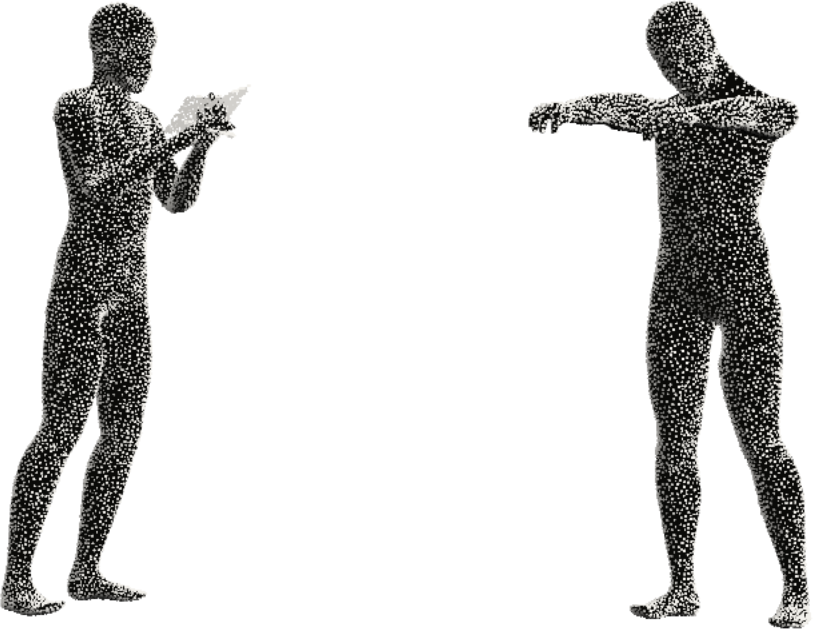
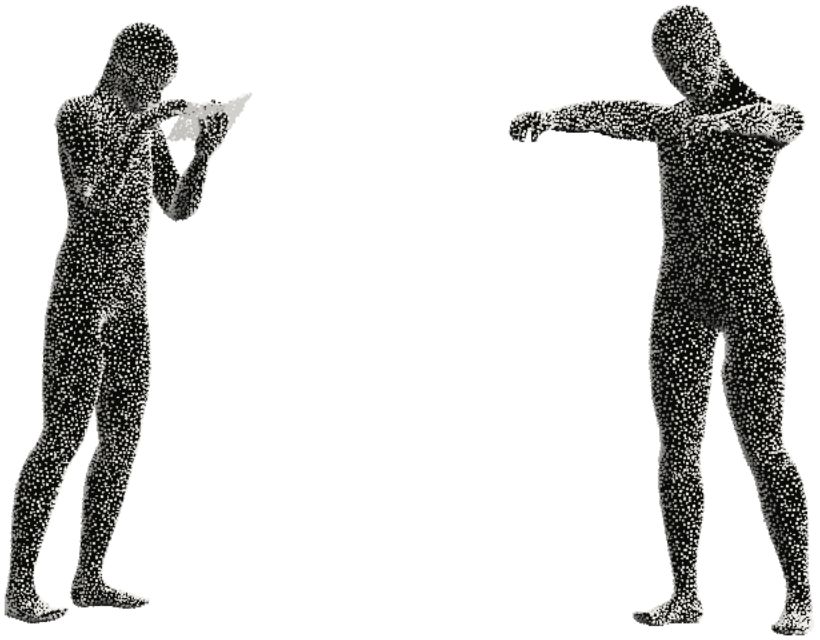
Продукты: привязать движение карандаша к странице

Changed region(s): [[0.615, 0.0, 1.0, 1.0], [0.0, 0.0, 0.3075, 0.9968]]

diff --git a/produkty/produkty-scene.js b/produkty/produkty-scene.js
@@ -13,6 +13,7 @@ import { SVGLoader } from '../_assets/vendor/three/loaders/SVGLoader.js';
 import { createSpinePoints } from '../_assets/3d/spine-page.js';
 import { init as initHuman } from '../_assets/3d/human-points.js?v=20261112-2';
 import { createMasterclassPoints } from '../_assets/3d/masterclass-points.js?v=20261112-2';
+import { NOTEBOOK_PAGES, PENCIL_TIP, palmFrame, constrainWriting } from '../_assets/3d/coach-writing.js?v=20261112-6';
 
 const STAT_TURN = 12;                 // с на оборот логотипа
 const SPINE_TURN = 20;                // с на оборот позвоночника (как на странице анализа)
@@ -154,6 +155,8 @@ function init() {
     inst.setTransform(S, foot, p0[0], p0[1], Math.cos(p0[2]), Math.sin(p0[2]));
     const placement = new THREE.Matrix4().compose(new THREE.Vector3(p0[0], -foot * S, p0[1]), new THREE.Quaternion().setFromAxisAngle(new THREE.Vector3(0, 1, 0), p0[2]), new THREE.Vector3(S, S, S));
     const props = opt.props ? opt.props.map((k) => handProp(k, inst, parent)) : [];
+    const writing = opt.clip === 'coach_notes' && props.length
+      ? constrainWriting(inst.model, props[0].palm, props[1].palm, props[1].mount) : null;
     // копии: те же точки и тело, своя матрица
     const copies = more.map(([x, z, yaw]) => {
       const pl = new THREE.Matrix4().compose(new THREE.Vector3(x, -foot * S, z), new THREE.Quaternion().setFromAxisAngle(new THREE.Vector3(0, 1, 0), yaw), new THREE.Vector3(S, S, S));
@@ -169,8 +172,10 @@ function init() {
       frame(dt, vis) {
         if (!vis) { if (on) { inst.pause(); for (const c of copies) c.pts.visible = c.occ.visible = false; for (const pr of props) pr.pts.visible = false; on = false; } return; }
         if (!on) { inst.resume(); on = true; }
+        writing?.restore();
         if (!reduce) inst.mixer.update(dt);
         inst.model.updateMatrixWorld(true);
+        writing?.apply(inst.actions.coach_notes.time);
         inst.update();
         inst.occ.material.uniforms.uColor.value.copy(bg);
         for (const pr of props) pr.update(placement);
@@ -227,56 +232,46 @@ function init() {
       }
     }
   }
-  function cylPoints(out, len, r, dens) {
-    const cnt = Math.round(2 * Math.PI * r * len * dens);
-    for (let i = 0; i < cnt; i++) {
-      const a = Math.random() * 2 * Math.PI, y = (Math.random() - 0.5) * len;
-      out.push(new THREE.Vector3(Math.cos(a) * r, y, Math.sin(a) * r), new THREE.Vector3(Math.cos(a), 0, Math.sin(a)));
+  function pencilPoints(out, dens) {
+    const radius = 0.0045, shoulder = PENCIL_TIP - 0.018;
+    for (const [start, end, endRadius] of [[-PENCIL_TIP, shoulder, radius], [shoulder, PENCIL_TIP, 0]]) {
+      const count = Math.round(Math.PI * (radius + endRadius) * (end - start) * dens);
+      for (let i = 0; i < count; i++) {
+        const angle = Math.random() * 2 * Math.PI, t = Math.random();
+        const c = Math.cos(angle), s = Math.sin(angle), r = THREE.MathUtils.lerp(radius, endRadius, t);
+        out.push(new THREE.Vector3(c * r, THREE.MathUtils.lerp(start, end, t), s * r),
+          new THREE.Vector3(c, (radius - endRadius) / (end - start), s).normalize());
+      }
     }
+    out.push(new THREE.Vector3(0, PENCIL_TIP, 0), new THREE.Vector3(0, 1, 0));
   }
   function handProp(kind, inst, parent) {
-    const sd = kind === 'notebook' ? 'Left' : 'Right';
-    const bone = (n) => inst.model.getObjectByName('mixamorig' + sd + n);
-    const B = { hand: bone('Hand'), mid: bone('HandMiddle1'), idx: bone('HandIndex1'), pinky: bone('HandPinky1'), thumb: bone('HandThumb3') };
+    const palm = palmFrame(inst.model, kind === 'notebook' ? 'Left' : 'Right');
     const arr = [], DENS = 24000;
     if (kind === 'notebook') {
-      // открытый блокнот A5 (две страницы по 10,5 x 14,8 см, толщина 4 мм), лёгкий излом по корешку;
-      // лежит на ладони, корешок вдоль кисти
-      const fold = 10 * Math.PI / 180;
-      for (const sg of [-1, 1]) {
-        const q = new THREE.Quaternion().setFromAxisAngle(new THREE.Vector3(0, 1, 0), -sg * fold);
-        const c = new THREE.Vector3(sg * 0.0525 * Math.cos(fold), 0.05, 0.034 + 0.0525 * Math.sin(fold));
-        boxPoints(arr, 0.105, 0.148, 0.004, c, q, DENS);
-      }
+      for (const { width, height, thickness, center, rotation } of NOTEBOOK_PAGES)
+        boxPoints(arr, width, height, thickness, center, rotation, DENS);
     } else {
-      // ручка: цилиндр 14 см, диаметр 9 мм
-      cylPoints(arr, 0.14, 0.0045, DENS * 1.6);
+      pencilPoints(arr, DENS * 1.6);
     }
     const n = arr.length / 2, pos = new Float32Array(n * 3), nrm = new Float32Array(n * 3);
     for (let i = 0; i < n; i++) { arr[2 * i].toArray(pos, 3 * i); arr[2 * i + 1].toArray(nrm, 3 * i); }
     const geo = new THREE.BufferGeometry();
     geo.setAttribute('position', new THREE.BufferAttribute(pos, 3)); geo.setAttribute('normal', new THREE.BufferAttribute(nrm, 3));
-    const mat = propMat();
+    const mat = kind === 'pen' ? propMat({ tone: 0.76 }) : propMat();
     const pts = new THREE.Points(geo, mat);
     pts.frustumCulled = false; pts.matrixAutoUpdate = false; pts.renderOrder = (inst.points.renderOrder || 6) + 1;
     parent.add(pts);
     (window.__props = window.__props || []).push({ kind, pts });   // для автотестов
-    const P = {}, frame = new THREE.Matrix4(), off = new THREE.Matrix4(), X = new THREE.Vector3(), Y = new THREE.Vector3(), Z = new THREE.Vector3(), tv = new THREE.Vector3();
-    // ручка в рамке ладони: центр у основания указательного, ось наклонена к ладони и к мизинцу
-    if (kind === 'pen') off.compose(new THREE.Vector3(0.015, 0.05, 0.03),
+    const mount = new THREE.Matrix4();
+    // Карандаш в рамке ладони: центр у основания указательного пальца.
+    if (kind === 'pen') mount.compose(new THREE.Vector3(0.015, 0.05, 0.03),
       new THREE.Quaternion().setFromUnitVectors(new THREE.Vector3(0, 1, 0), new THREE.Vector3(-0.25, 0.55, 0.8).normalize()), new THREE.Vector3(1, 1, 1));
     return {
-      pts, count: n,
+      pts, palm, mount,
       dpr() { mat.uniforms.uDpr.value = renderer.getPixelRatio(); },
       update(placement) {
-        for (const k in B) { P[k] = P[k] || new THREE.Vector3(); B[k].getWorldPosition(P[k]); }
-        Y.subVectors(P.mid, P.hand).normalize();
-        X.subVectors(P.idx, P.pinky); X.addScaledVector(Y, -X.dot(Y)).normalize();
-        Z.crossVectors(X, Y).normalize();
-        if (Z.dot(tv.subVectors(P.thumb, P.hand)) < 0) { Z.negate(); X.negate(); }
-        frame.makeBasis(X, Y, Z).setPosition(tv.copy(P.hand).lerp(P.mid, 0.5));
-        pts.matrix.multiplyMatrices(placement, frame);
-        if (kind === 'pen') pts.matrix.multiply(off);
+        pts.matrix.multiplyMatrices(placement, palm()).multiply(mount);
         pts.matrixWorldNeedsUpdate = true; pts.visible = inst.points.visible;
       },
     };

diff --git a/_assets/3d/coach-writing.js b/_assets/3d/coach-writing.js
@@ -1,0 +1,130 @@
+import * as THREE from 'three';
+
+const PAGE_WIDTH = 0.105;
+const PAGE_HEIGHT = 0.148;
+const PAGE_THICKNESS = 0.004;
+const FOLD = THREE.MathUtils.degToRad(10);
+const UP = new THREE.Vector3(0, 1, 0);
+export const PENCIL_TIP = 0.07;
+export const NOTEBOOK_PAGES = [-1, 1].map(side => ({
+  width: PAGE_WIDTH, height: PAGE_HEIGHT, thickness: PAGE_THICKNESS,
+  center: new THREE.Vector3(side * PAGE_WIDTH / 2 * Math.cos(FOLD), 0.05, 0.034 + PAGE_WIDTH / 2 * Math.sin(FOLD)),
+  rotation: new THREE.Quaternion().setFromAxisAngle(UP, -side * FOLD),
+}));
+
+const bone = (model, name) => model.getObjectByName('mixamorig' + name);
+
+// Та же рамка используется для крепления реквизита и расчёта контакта со страницей.
+export function palmFrame(model, side) {
+  const hand = bone(model, side + 'Hand');
+  const middle = bone(model, side + 'HandMiddle1');
+  const index = bone(model, side + 'HandIndex1');
+  const pinky = bone(model, side + 'HandPinky1');
+  const thumb = bone(model, side + 'HandThumb3');
+  const matrix = new THREE.Matrix4();
+  const origin = new THREE.Vector3(), center = new THREE.Vector3(), thumbDirection = new THREE.Vector3();
+  const x = new THREE.Vector3(), y = new THREE.Vector3(), z = new THREE.Vector3();
+  return function update() {
+    hand.getWorldPosition(origin);
+    middle.getWorldPosition(y);
+    center.copy(y).lerp(origin, 0.5);
+    y.sub(origin).normalize();
+    index.getWorldPosition(x);
+    pinky.getWorldPosition(z);
+    x.sub(z).addScaledVector(y, -x.dot(y)).normalize();
+    z.crossVectors(x, y).normalize();
+    if (z.dot(thumb.getWorldPosition(thumbDirection).sub(origin)) < 0) {
+      x.negate(); z.negate();
+    }
+    return matrix.makeBasis(x, y, z).setPosition(center);
+  };
+}
+
+const ease = (a, b, t) => THREE.MathUtils.smoothstep(t, a, b);
+const mix = THREE.MathUtils.lerp;
+const FIRST = 3.1, TURN = 3.75, SECOND = 3.97, END = 4.7;
+const START_X = -0.027, END_X = 0.028;
+const LINE_1 = -0.017, LINE_2 = 0.011;
+const PARK_X = 0.033, PARK_Y = -0.027, PARK_Z = 0.034;
+
+function stroke(t, from, to, line, target) {
+  const p = ease(from, to, t);
+  const envelope = Math.sin(Math.PI * p);
+  return target.set(mix(START_X, END_X, p) + 0.0015 * envelope * Math.sin(p * 29),
+    line + 0.0034 * envelope * Math.sin(p * 36), 0);
+}
+
+function targetOnPage(t, target) {
+  if (t < FIRST) {
+    const p = ease(2.55, FIRST, t);
+    return target.set(mix(PARK_X, START_X, p), mix(PARK_Y, LINE_1, p), PARK_Z * (1 - p));
+  }
+  if (t < TURN) return stroke(t, FIRST, TURN, LINE_1, target);
+  if (t < SECOND) {
+    const p = ease(TURN, SECOND, t);
+    return target.set(mix(END_X, START_X, p), mix(LINE_1, LINE_2, p), 0.009 * Math.sin(Math.PI * p));
+  }
+  if (t < END) return stroke(t, SECOND, END, LINE_2, target);
+  const p = ease(END, 5.45, t);
+  return target.set(mix(END_X, PARK_X, p), mix(LINE_2, PARK_Y, p), PARK_Z * p);
+}
+
+export function constrainWriting(model, notebookPalm, pencilPalm, pencilMount) {
+  const upper = bone(model, 'RightArm');
+  const fore = bone(model, 'RightForeArm');
+  const wrist = bone(model, 'RightHand');
+  const joints = [upper, fore, wrist];
+  const original = joints.map(() => new THREE.Quaternion());
+  const handRotation = new THREE.Quaternion(), parentRotation = new THREE.Quaternion();
+  const turn = new THREE.Quaternion(), world = new THREE.Quaternion();
+  const shoulder = new THREE.Vector3(), elbow = new THREE.Vector3(), hand = new THREE.Vector3();
+  const tip = new THREE.Vector3(), target = new THREE.Vector3();
+  const along = new THREE.Vector3(), bend = new THREE.Vector3(), nextElbow = new THREE.Vector3();
+  const from = new THREE.Vector3(), to = new THREE.Vector3();
+  const page = NOTEBOOK_PAGES[1];
+  let hasPose = false;
+
+  function setWorldRotation(joint, rotation) {
+    joint.parent.getWorldQuaternion(parentRotation).invert();
+    joint.quaternion.multiplyQuaternions(parentRotation, rotation);
+    joint.updateWorldMatrix(false, true);
+  }
+
+  function aim(joint, current, desired) {
+    turn.setFromUnitVectors(current.normalize(), desired.normalize());
+    setWorldRotation(joint, joint.getWorldQuaternion(world).premultiply(turn));
+  }
+
+  return {
+    restore() {
+      if (hasPose) joints.forEach((joint, i) => joint.quaternion.copy(original[i]));
+    },
+    apply(time) {
+      joints.forEach((joint, i) => original[i].copy(joint.quaternion));
+      hasPose = true;
+      upper.getWorldPosition(shoulder);
+      fore.getWorldPosition(elbow);
+      wrist.getWorldPosition(hand);
+      wrist.getWorldQuaternion(handRotation);
+      tip.set(0, PENCIL_TIP, 0).applyMatrix4(pencilMount).applyMatrix4(pencilPalm());
+      targetOnPage(time, target);
+      target.z += page.thickness / 2 + 0.00045;
+      target.applyQuaternion(page.rotation).add(page.center).applyMatrix4(notebookPalm());
+      // Перемещаем запястье на ту же величину, что и кончик, сохраняя хват.
+      target.add(hand).sub(tip);
+
+      const upperLength = shoulder.distanceTo(elbow), foreLength = elbow.distanceTo(hand);
+      along.subVectors(target, shoulder).normalize();
+      const reach = THREE.MathUtils.clamp(shoulder.distanceTo(target), Math.abs(upperLength - foreLength) + 0.001, upperLength + foreLength - 0.001);
+      bend.subVectors(elbow, shoulder).addScaledVector(along, -bend.dot(along)).normalize();
+      const a = (upperLength ** 2 - foreLength ** 2 + reach ** 2) / (2 * reach);
+      nextElbow.copy(shoulder).addScaledVector(along, a).addScaledVector(bend, Math.sqrt(Math.max(0, upperLength ** 2 - a ** 2)));
+      target.copy(shoulder).addScaledVector(along, reach);
+      aim(upper, from.subVectors(elbow, shoulder), to.subVectors(nextElbow, shoulder));
+      fore.getWorldPosition(elbow);
+      wrist.getWorldPosition(hand);
+      aim(fore, from.subVectors(hand, elbow), to.subVectors(target, elbow));
+      setWorldRotation(wrist, handRotation);
+    },
+  };
+}

diff --git a/produkty/index.html b/produkty/index.html
@@ -254,7 +254,7 @@ html.reduce *{scroll-behavior:auto!important}
       <a class="btn" href="../analiz-osanki/#zapis">Начать с анализа</a>
     </div>
     <div class="stage" data-obj="duo" data-hit>
-      <img class="static" src="../_assets/img/produkty-duo.png" alt="" loading="lazy">
+      <img class="static" src="../_assets/img/produkty-duo.png?v=20261112-6" alt="" loading="lazy">
     </div>
   </div>
 </section>
@@ -361,6 +361,6 @@ html.reduce *{scroll-behavior:auto!important}
 </script>
 <script src="../_assets/vendor/lenis.min.js"></script>
 <script src="produkty-page.js"></script>
-<script type="module" src="produkty-scene.js?v=20261112-3"></script>
+<script type="module" src="produkty-scene.js?v=20261112-6"></script>
 </body>
 </html>
